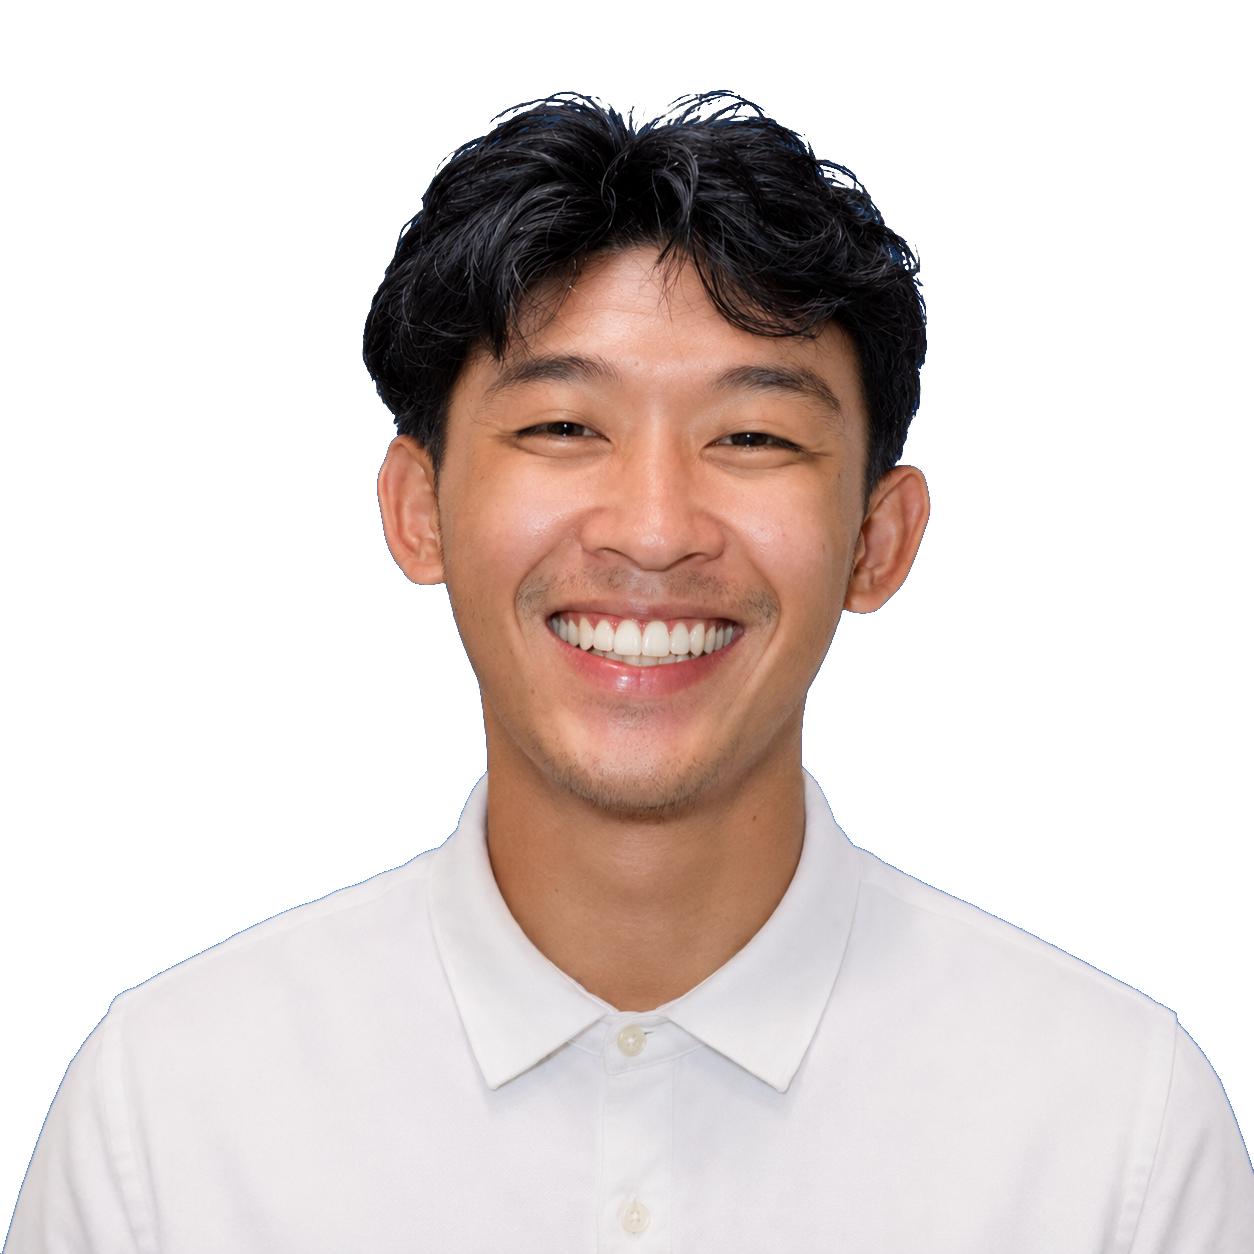
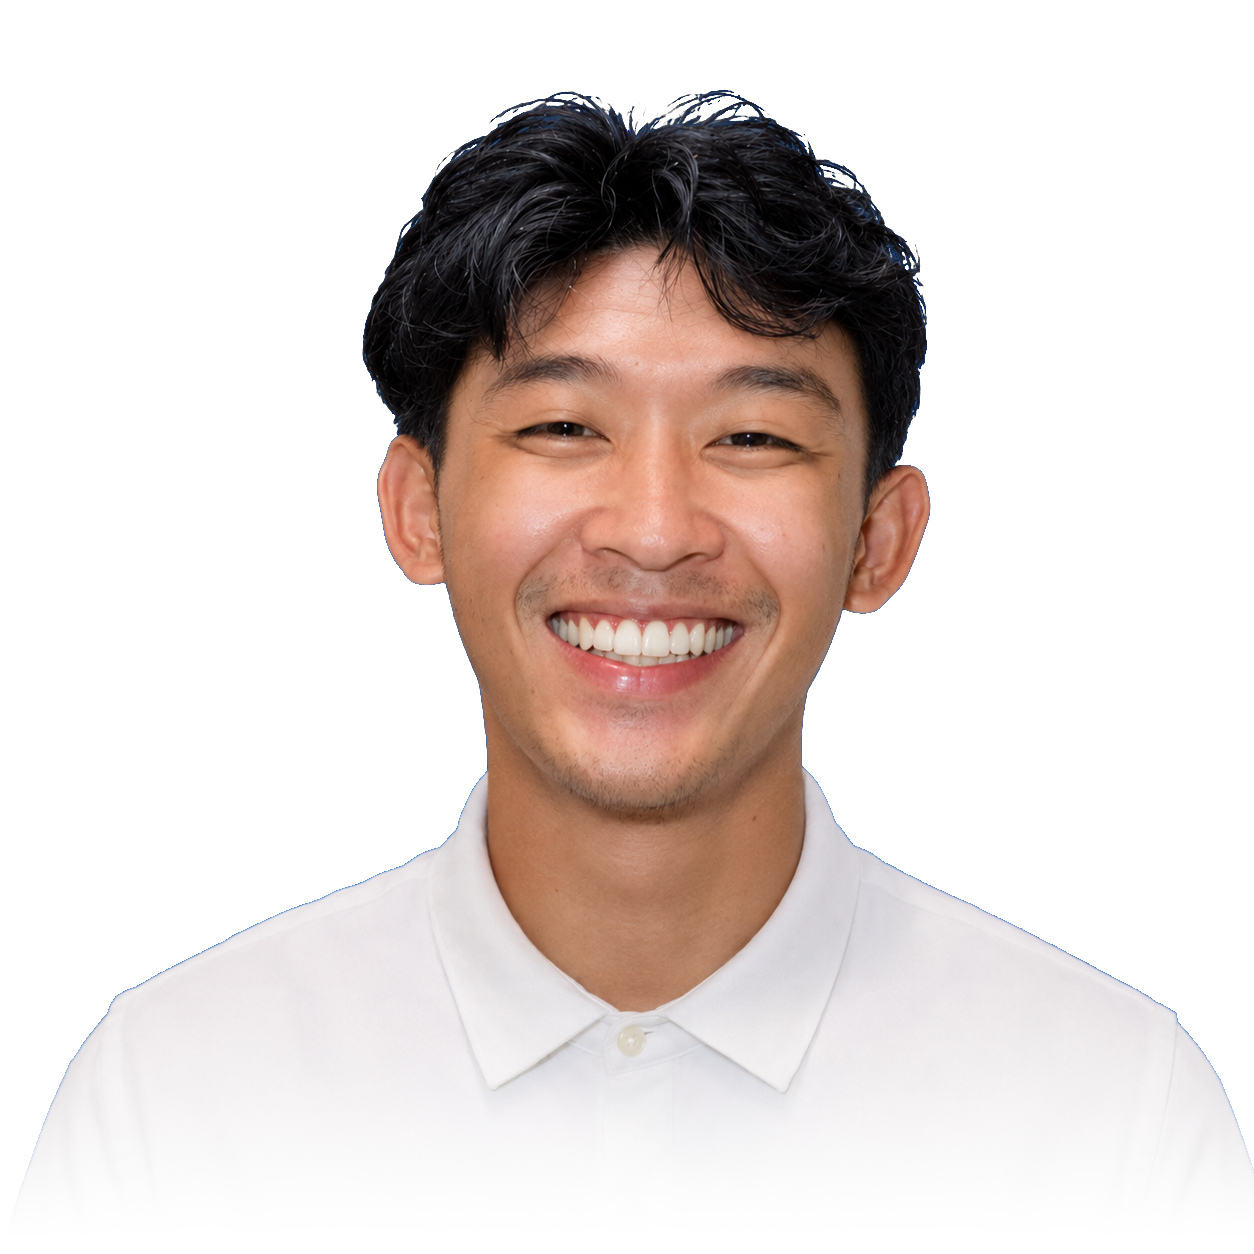
world-03: embed smoothstep alpha feathering directly into Riva_ID.png, enforce img mask, and ensure scroll fade executes across all motion settings

Changed region(s): [[0.0, 0.8708, 1.0, 1.0], [0.4043, 0.8397, 0.4354, 0.8708]]

diff --git a/components/current/CurrentHero.tsx b/components/current/CurrentHero.tsx
@@ -8,14 +8,12 @@ export default function CurrentHero() {
   const portraitRef = useRef<HTMLDivElement>(null);
 
   useEffect(() => {
-    // Graceful fallback for prefers-reduced-motion (§6.3.11, §11.4)
+    const el = portraitRef.current;
+    if (!el) return;
+
     const prefersReducedMotion = window.matchMedia(
       "(prefers-reduced-motion: reduce)"
     ).matches;
-    if (prefersReducedMotion) return;
-
-    const el = portraitRef.current;
-    if (!el) return;
 
     let ticking = false;
 
@@ -23,15 +21,17 @@ export default function CurrentHero() {
       if (!ticking) {
         window.requestAnimationFrame(() => {
           const scrollY = window.scrollY || window.pageYOffset;
-          // Smoothly dissolve portrait as user descends past the surface (first 360px of scroll)
-          const fadeProgress = Math.min(1, Math.max(0, scrollY / 360));
-          const opacity = 1 - fadeProgress;
-          // Natural submersion drift (0.18x parallax)
-          const translateY = scrollY * 0.18;
+          // Smoothly dissolve portrait as user descends past the surface (first 300px of scroll)
+          const fadeProgress = Math.min(1, Math.max(0, scrollY / 300));
+          const opacity = Math.max(0, 1 - fadeProgress);
 
           if (el) {
             el.style.opacity = opacity.toFixed(3);
-            el.style.transform = `translate3d(0, ${translateY.toFixed(1)}px, 0)`;
+            if (!prefersReducedMotion) {
+              // Natural submersion drift (0.22x parallax downwards)
+              const translateY = scrollY * 0.22;
+              el.style.transform = `translate3d(0, ${translateY.toFixed(1)}px, 0)`;
+            }
           }
           ticking = false;
         });
@@ -133,7 +133,7 @@ export default function CurrentHero() {
                 width={1254}
                 height={1254}
                 priority
-                quality={100}
+                unoptimized
                 className="w-full h-full object-contain brightness-[1.01] contrast-[1.02] dark:brightness-[0.95] dark:contrast-[1.01] transition-[transform,filter] duration-700 ease-out hover:scale-[1.015]"
                 sizes="(max-width: 640px) 18rem, (max-width: 1024px) 21rem, 23rem"
               />

diff --git a/app/globals.css b/app/globals.css
@@ -256,7 +256,8 @@
 }
 
 /* World 03 Editorial Portrait Mask: eased multi-stop cubic dissolve from mid-chest (zero hard cutoff) */
-.current-portrait-mask {
+.current-portrait-mask,
+.current-portrait-mask img {
   -webkit-mask-image: linear-gradient(
     to bottom,
     #000 0%,
@@ -275,6 +276,10 @@
     rgba(0, 0, 0, 0.15) 95%,
     transparent 100%
   );
+  -webkit-mask-size: 100% 100%;
+  mask-size: 100% 100%;
+  -webkit-mask-repeat: no-repeat;
+  mask-repeat: no-repeat;
 }
 
 /* Reduced Motion (§6.3.11, §11.4) */
